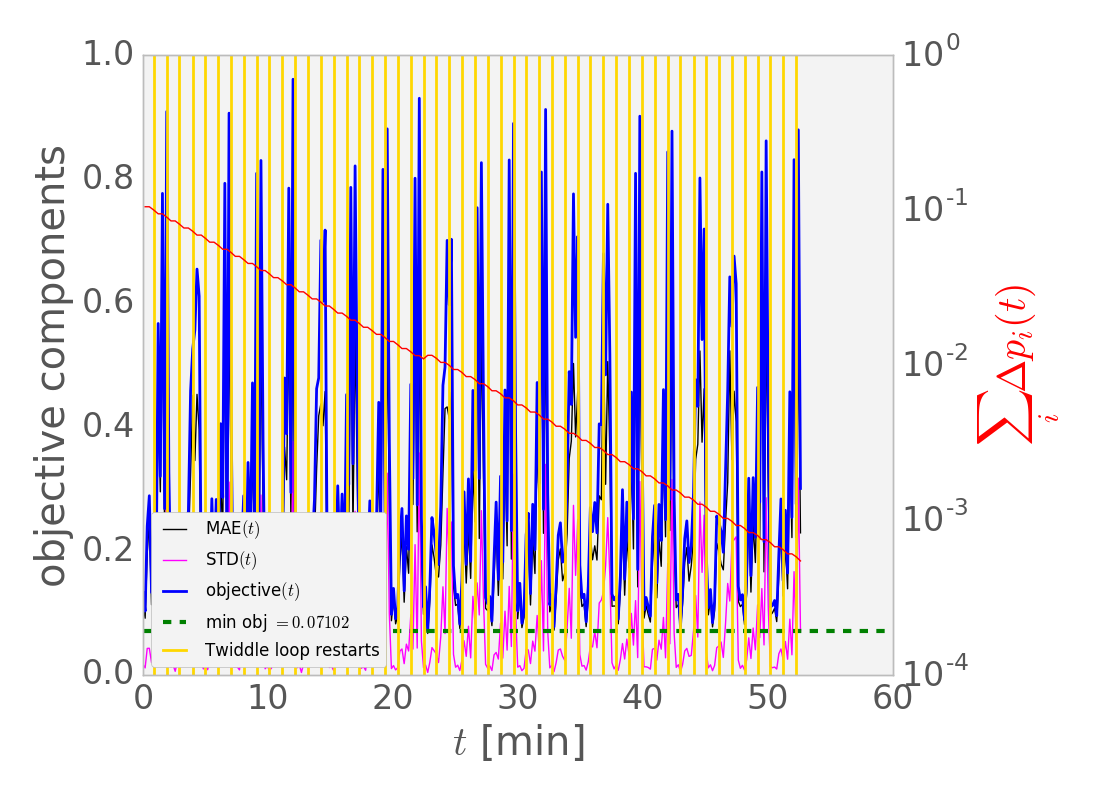
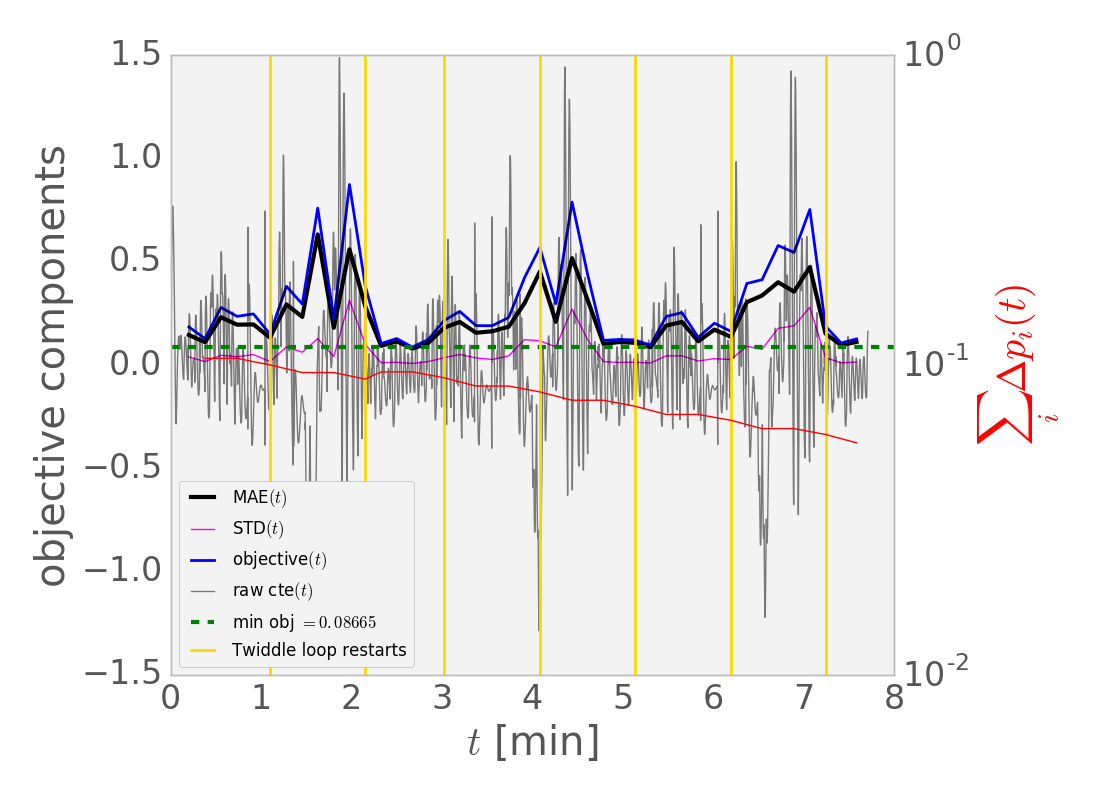
Record raw CTE as well.

diff --git a/bin/plot.py b/bin/plot.py
@@ -2,23 +2,28 @@ import matplotlib.pyplot as plt
 import numpy as np
 from sys import argv
 
-def line(l):
-    if '|' in l:
-        l = l.split('|')
-        assert len(l) == 2
-        return long(l[0]), l[1].strip()
-    else:
-        return None, l
 
 nparam = 3
+
 
 if len(argv) == 1:
     fname = 'twiddle.out'
 else:
     fname = argv[1]
 
+# Read twiddle log.
 with open(fname, 'r') as f:
     lines = f.readlines()
+
+# Read CTE log.
+cte_history = []
+cte_history_times = []
+with open('../build/cte.csv', 'r') as ctefile:
+    for line in ctefile.readlines():
+        t, cte, speed, angle = line.split(',')
+        cte_history.append(float(cte))
+        cte_history_times.append(int(t))
+
 
 parameter_history = []
 parameter_history_times = []
@@ -37,8 +42,18 @@ obj_history_times = []
 
 cycle_start_times = []
 
+
+def parse_time_from_line(l):
+    if '|' in l:
+        l = l.split('|')
+        assert len(l) == 2
+        return long(l[0]), l[1].strip()
+    else:
+        return None, l
+
+
 for l in lines:
-    t_clock, l = line(l)
+    t_clock, l = parse_time_from_line(l)
 
     if t_clock is None:
         continue
@@ -80,10 +95,14 @@ for l in lines:
         i_attempt = 0
         i_param = int(l.replace('-', '').replace('i=', ''))
 
-diff_parameter_history = np.array(diff_parameter_history)
-parameter_history = np.array(parameter_history)
-
 ar = lambda v: np.array(v).astype(float)
+
+parameter_history = ar(parameter_history)
+diff_parameter_history = ar(diff_parameter_history)
+obj_history = ar(obj_history)
+mae_history = ar(mae_history)
+std_history = ar(std_history)
+cte_history = ar(cte_history)
 
 parameter_history_times = ar(parameter_history_times)
 diff_parameter_history_times = ar(diff_parameter_history_times)
@@ -91,10 +110,12 @@ obj_history_times = ar(obj_history_times)
 mae_history_times = ar(mae_history_times)
 std_history_times = ar(std_history_times)
 cycle_start_times = ar(cycle_start_times)
+cte_history_times = ar(cte_history_times)
 
 Ts = (
     parameter_history_times, diff_parameter_history_times, 
-    obj_history_times, mae_history_times, std_history_times, cycle_start_times
+    obj_history_times, mae_history_times, std_history_times, cycle_start_times,
+    cte_history_times
 )
 t0 = min([a.min() for a in Ts])
 for a in Ts:
@@ -103,10 +124,13 @@ for a in Ts:
     a[:] /= 1000 * 60
 
 fig, ax = plt.subplots()
-ax.plot(mae_history_times, mae_history, color='black', label='MAE$(t)$')
+ax.plot(mae_history_times, mae_history, color='black', label='MAE$(t)$', linewidth=3)
 ax.plot(std_history_times, std_history, color='magenta', label='STD$(t)$')
 ax.plot(obj_history_times, obj_history, 
     color='blue', linewidth=2, linestyle='-', label='objective$(t)$')
+ax.plot(cte_history_times, cte_history,
+        color='black', alpha=.5, linestyle='-', label='raw cte$(t)$')
+
 mobj = min(obj_history)
 ax.axhline(mobj, label='min obj $=%.5f$' % mobj, 
     linewidth=3, linestyle='--', color='green')

diff --git a/src/twiddle_main.cpp b/src/twiddle_main.cpp
@@ -1,10 +1,14 @@
-#include <uWS/uWS.h>
 #include <iostream>
-#include "json.hpp"
-#include "PID.h"
-#include "twiddle.h"
 #include <cmath>
 #include <algorithm>  // std::min, std::max
+#include <fstream> // std::ofstream
+#include "json.hpp"
+
+#include <uWS/uWS.h>
+#include "PID.h"
+
+#include "twiddle.h"
+#include "say_time.h"
 
 
 // Set parameters.
@@ -61,7 +65,10 @@ int main() {
     int nsamples = NSAMPLES;
     TwiddlerManager twiddler_manager(pids, nsamples, TWIDDLETOL, NDISCARD);
 
-    h.onMessage([&pid_steering, &pid_throttle, &twiddler_manager](uWS::WebSocket<uWS::SERVER> ws, char *data, size_t length, uWS::OpCode opCode) {
+    std::ofstream cte_log_file;
+    cte_log_file.open("cte.csv", std::ios::trunc);
+
+    h.onMessage([&pid_steering, &pid_throttle, &twiddler_manager, &cte_log_file](uWS::WebSocket<uWS::SERVER> ws, char *data, size_t length, uWS::OpCode opCode) {
         // "42" at the start of the message means there's a websocket message event.
         // The 4 signifies a websocket message
         // The 2 signifies a websocket event
@@ -75,6 +82,8 @@ int main() {
                     double cte = std::stod(j[1]["cte"].get<std::string>());
                     double speed = std::stod(j[1]["speed"].get<std::string>());
                     double angle = std::stod(j[1]["steering_angle"].get<std::string>());
+
+                    cte_log_file << epoch_time()<<", " << cte<<"," << speed<<"," <<angle<< std::endl;
 
                     // std::cout << "Current angle/speed is " << angle << "/" << speed << std::endl;
 

diff --git a/src/say_time.h b/src/say_time.h
@@ -1,0 +1,22 @@
+#ifndef SAY_TIME_H
+#define SAY_TIME_H
+
+#include <chrono>
+#include <iostream>
+
+
+inline long epoch_time() {
+    using namespace std::chrono;
+    long ms = duration_cast<milliseconds> (
+            system_clock::now().time_since_epoch()
+    ).count();
+    return ms;
+}
+
+
+inline void say_time() {
+    long ms = epoch_time();
+    std::cout << ms << " | ";
+}
+
+#endif // SAY_TIME_H

diff --git a/src/twiddle.cpp b/src/twiddle.cpp
@@ -28,13 +28,6 @@ Twiddler::Twiddler(int nparams=6, double tol=0.0001) {
 	declared_convergence = false;
 }
 
-void say_time() {
-	using namespace std::chrono;
-	long ms = duration_cast<milliseconds> (
-		system_clock::now().time_since_epoch()
-	).count();
-	cout << ms << " | ";
-}
 
 bool Twiddler::twiddle(double error) {
 

diff --git a/src/twiddle.h b/src/twiddle.h
@@ -5,6 +5,7 @@
 #include <limits>
 #include "PID.h"
 #include "vector_utils.h"
+#include "say_time.h"
 
 enum last_change_enum { INCREASE, DECREASE, NONE };
 typedef enum last_change_enum last_change_t;
